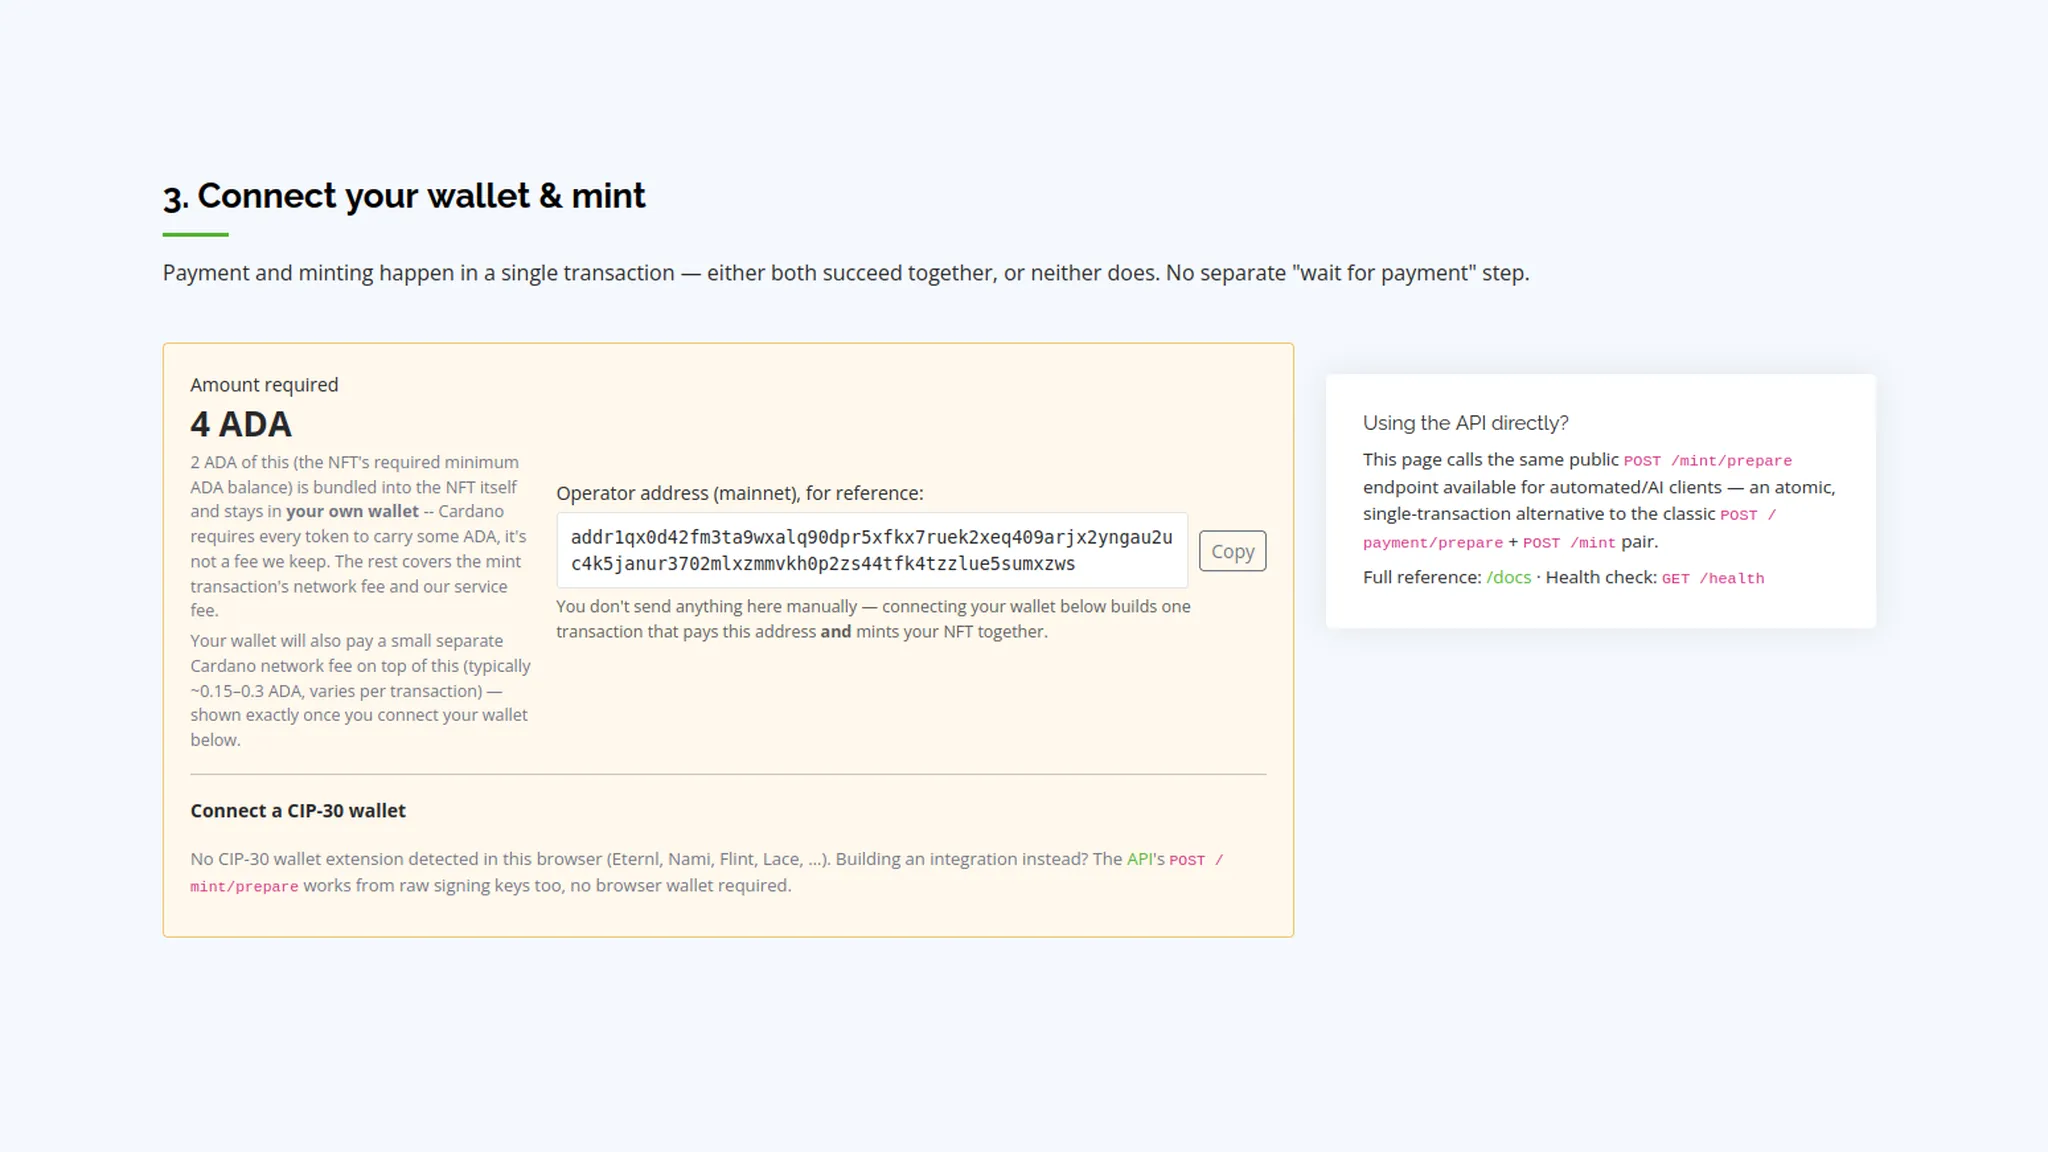
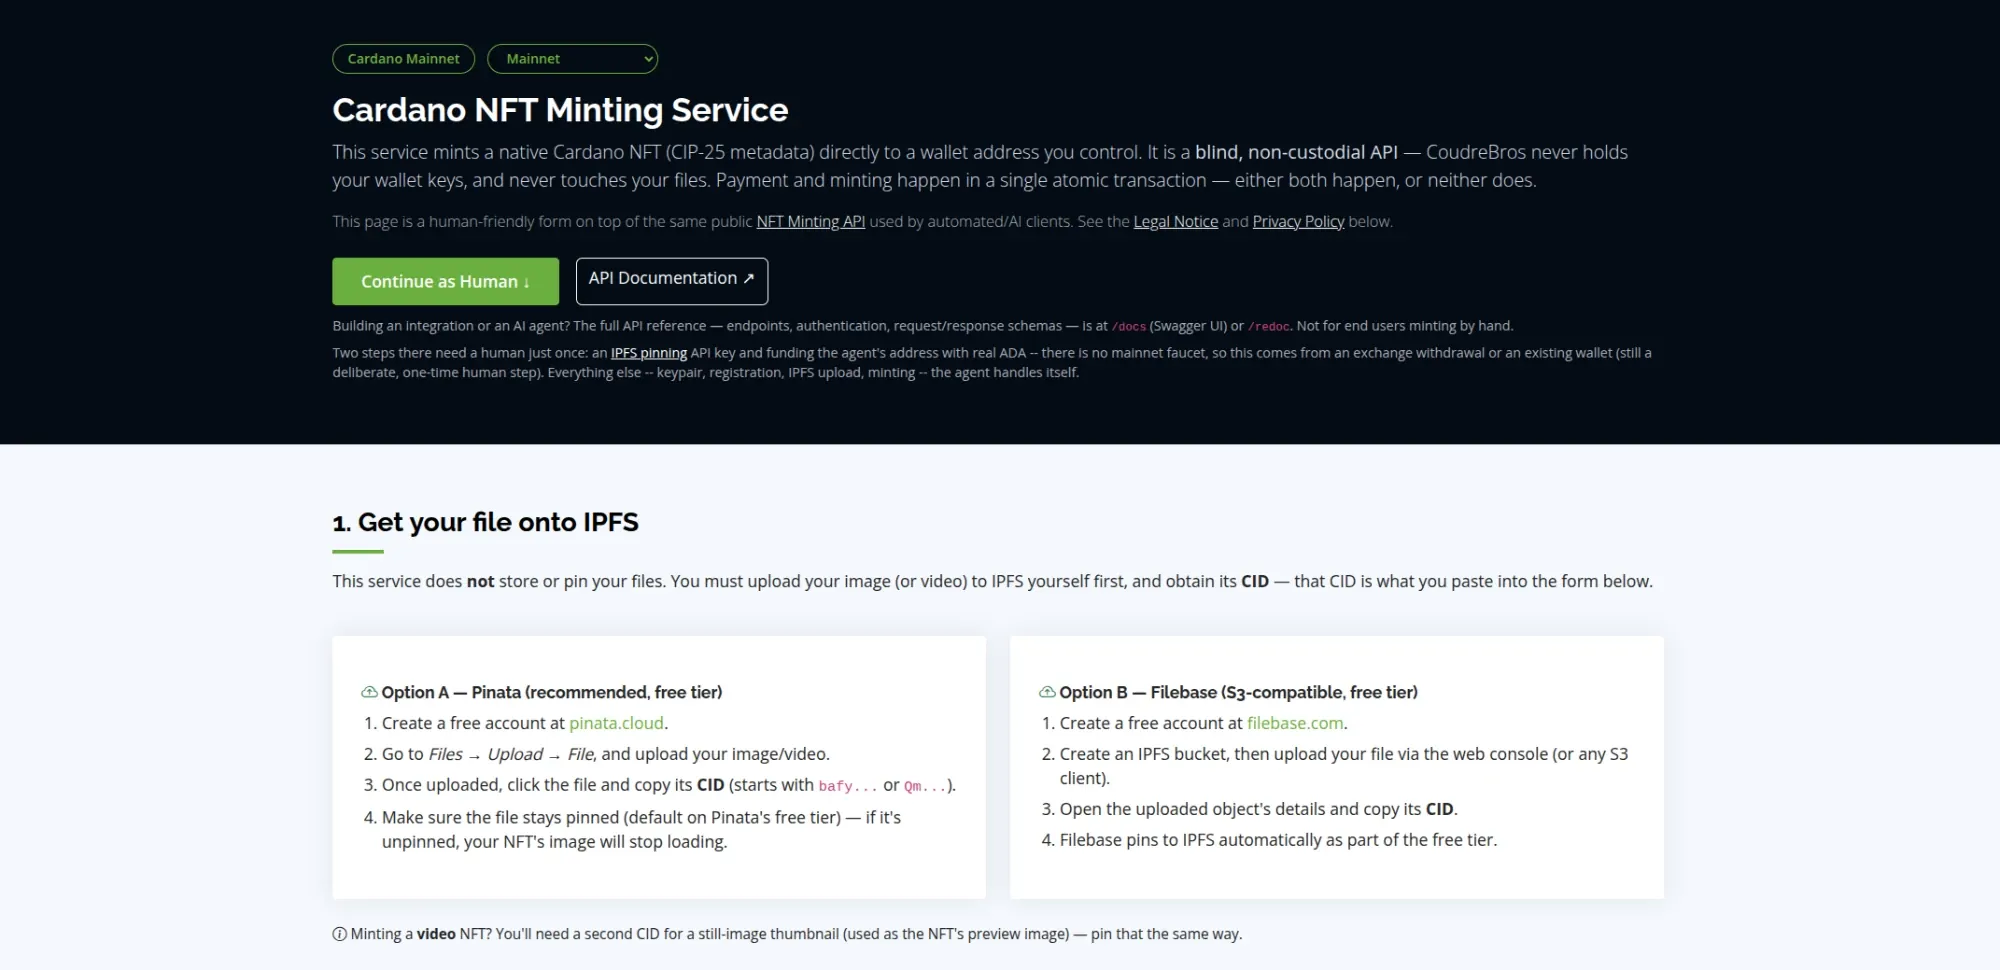
Replace CBROS NFT Minting screenshot, add connected-wallet carousel view
Primary screenshot is now the landing page overview; the previous
no-CIP-30-wallet-detected state is replaced, and a new extraPreviews
entry shows the mint-ready state with a connected wallet, per
reviewer feedback.

Claude-Session: https://claude.ai/code/session_01JFBDGe83fStSPoTakPZvCN

diff --git a/src/data/apps.js b/src/data/apps.js
@@ -1943,6 +1943,9 @@ export const Showcases = [
       "API and web widget for minting CIP-25 NFTs on Cardano. Register a wallet, pay per mint, and the service builds, signs, and submits the transaction on-chain.",
     tagline: "Mint CIP-25 NFTs on Cardano via API",
     preview: require("./app-screenshots/cbros-nft-minting.webp"),
+    extraPreviews: [
+      require("./app-screenshots/cbros-nft-minting-wallet.webp"),
+    ],
     icon: "/img/app-icons/cbros-nft-minting.png",
     website: "https://www.coudrebros.eu/nft_api/",
     source: null,
